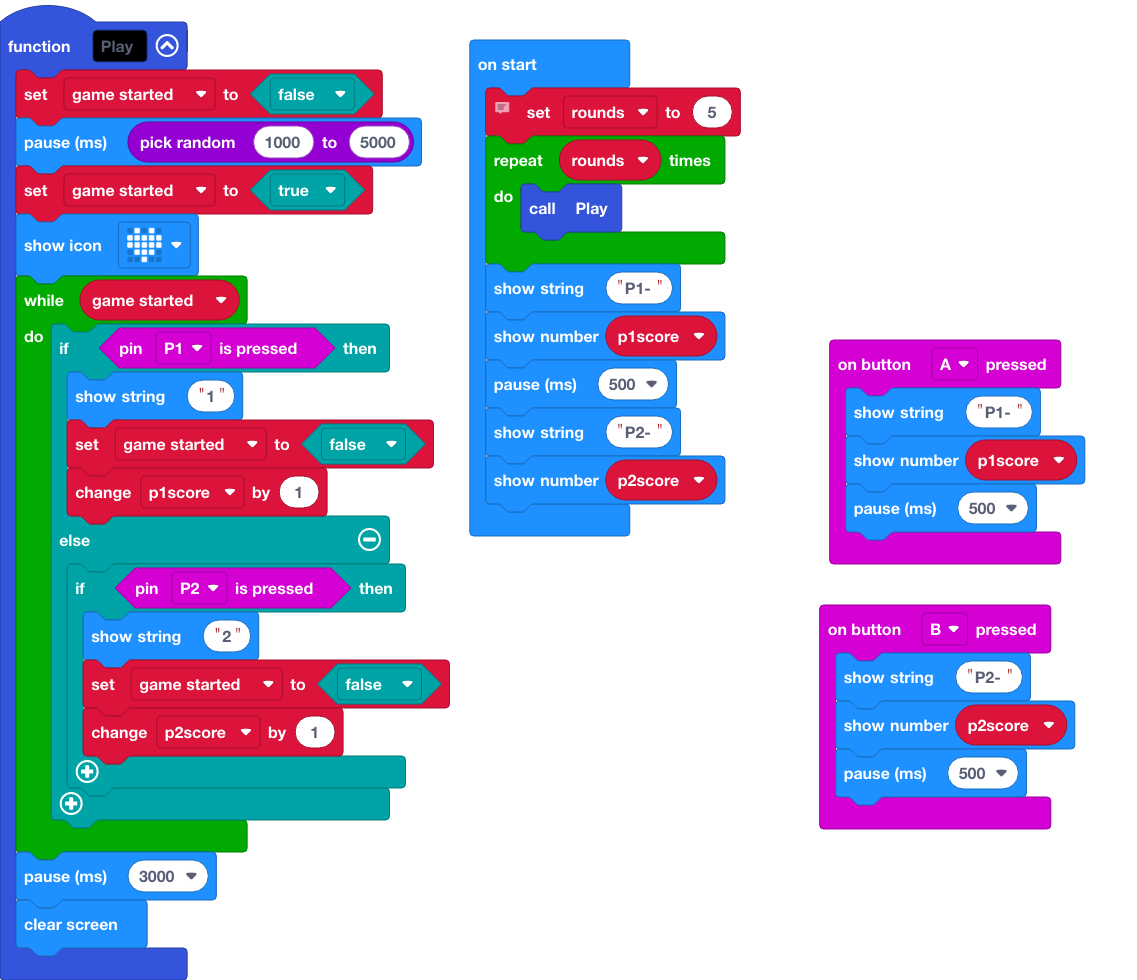
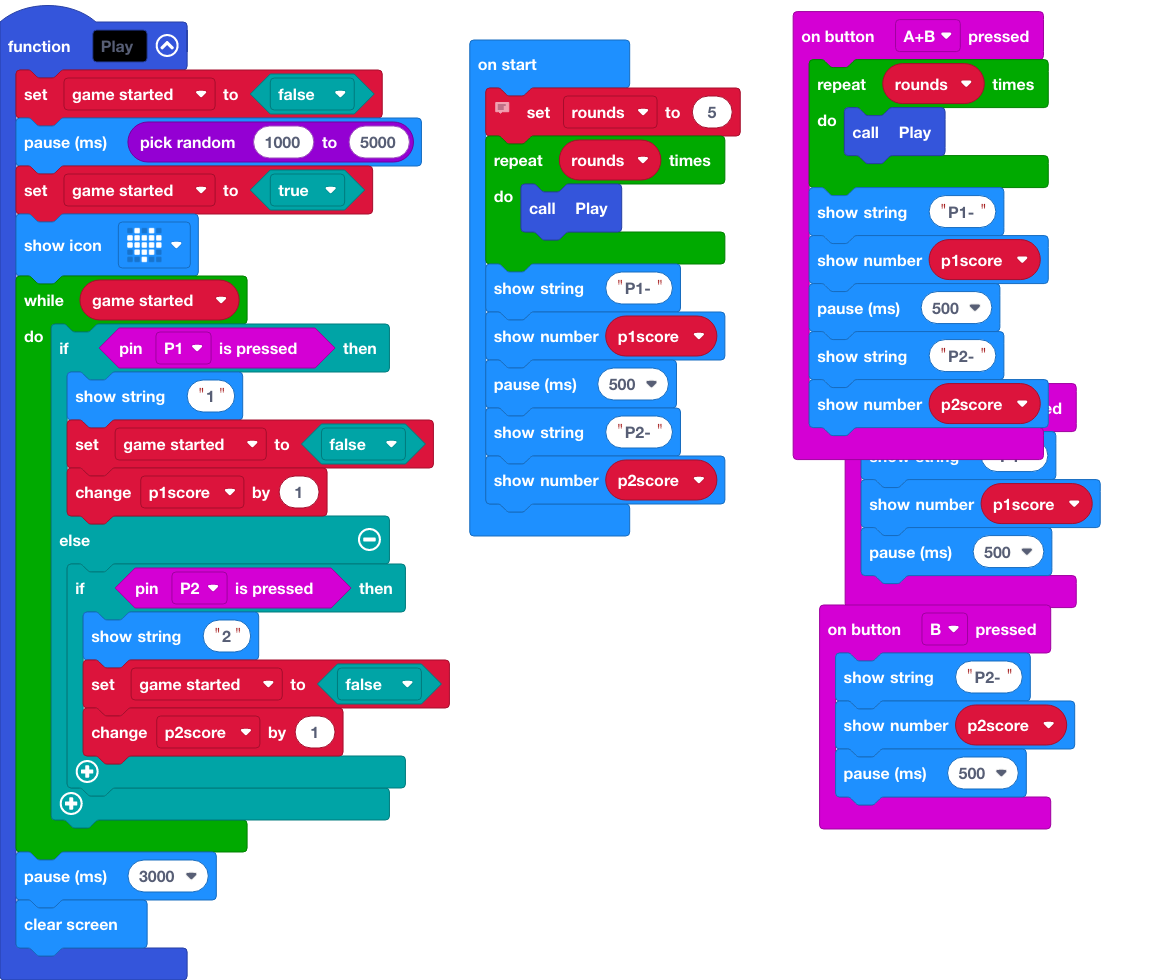
Update pxt.json, main.blocks, main.ts

diff --git a/main.ts b/main.ts
@@ -24,6 +24,16 @@ input.onButtonPressed(Button.A, function () {
     basic.showNumber(p1score)
     basic.pause(500)
 })
+input.onButtonPressed(Button.AB, function () {
+    for (let index = 0; index < rounds; index++) {
+        Play()
+    }
+    basic.showString("P1-")
+    basic.showNumber(p1score)
+    basic.pause(500)
+    basic.showString("P2-")
+    basic.showNumber(p2score)
+})
 input.onButtonPressed(Button.B, function () {
     basic.showString("P2-")
     basic.showNumber(p2score)
@@ -32,10 +42,11 @@ input.onButtonPressed(Button.B, function () {
 let game_started = false
 let p2score = 0
 let p1score = 0
+let rounds = 0
 // Please select the amount of rounds you would like to play. There will be no breaks, so keep alert!
 // You can see the scores at the end of the game. If you wish to see them again, press A (Player 1) or B (Player 2) once they've finished scrolling across the screen.
 //         
-let rounds = 5
+rounds = 5
 for (let index = 0; index < rounds; index++) {
     Play()
 }
